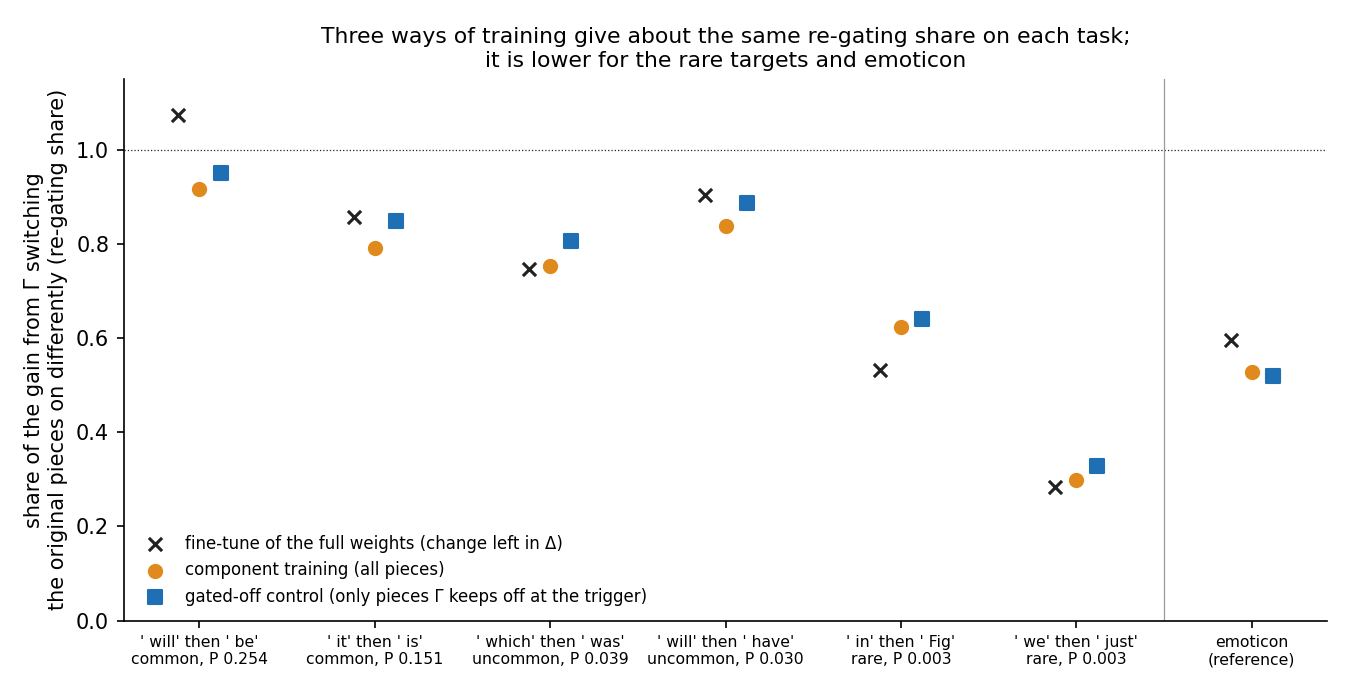
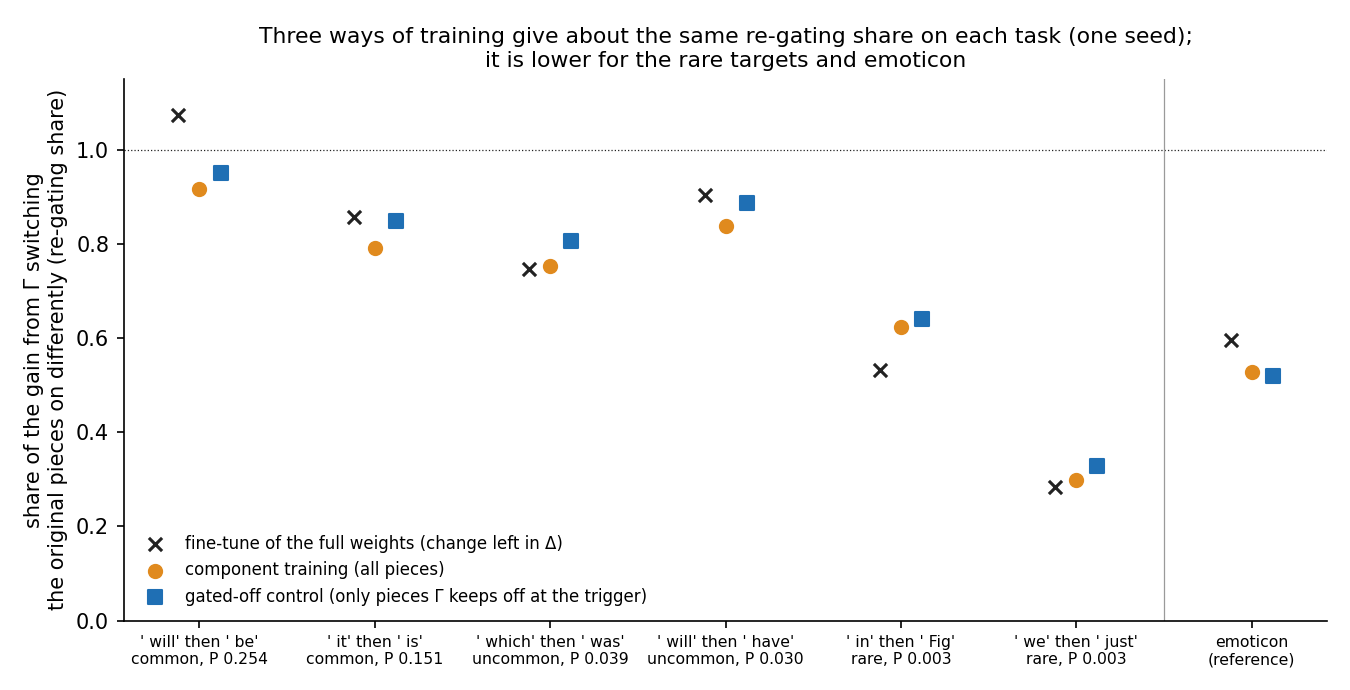
E5 card: final-read fixes

Changed region(s): [[0.1867, 0.0304, 0.8711, 0.0609]]

diff --git a/docs/research_log/parts/experiments/e5.html b/docs/research_log/parts/experiments/e5.html
@@ -2,11 +2,11 @@
 <div class="top"><span class="id">E5</span><span class="chip refuted">missed</span><h3>Does the share of an update that lands on the pieces Γ marks important predict how much of a new behaviour the decomposition keeps?</h3><span class="when">run 2026-10-19 · RunPod RTX 4090 (named in the pod's smoke log) · <code>experiments/task_ladder</code></span></div>
 <p class="one"><strong>The question.</strong> When the decomposition's pieces are trained on a new behaviour, how much of it does the decomposition itself keep, and what decides that (Q4, Q5, Q7)? This round's guess was <em>coverage</em>: the share of the first training step's update that falls on pieces Γ already marks as important at the trigger. We also guessed that how rare the target is would not matter on its own.</p>
 <p class="one"><strong>What we did.</strong> We picked six next-word tasks, each a trigger word followed by a target word, such as ` will` then ` be`. They come in three <em>rungs</em> by how likely the original model already finds the target: common, uncommon and rare, a factor of ten apart, with one high-coverage and one low-coverage task per rung. The emoticon task (after the first character of an emoticon, predict <code>o</code>) was the reference. Each task was learned three ways for 10 steps. <em>Component training</em>: Adam moves every alive piece (one whose importance ever rises above a small threshold), while Γ and the residual Δ stay frozen. The <em>gated-off control</em>: the same, but only pieces Γ keeps switched off at the trigger may move, so the moved pieces should carry nothing. <em>Do-nothing</em>: an ordinary fine-tune whose whole weight change is left in Δ, so the pieces never move. The <em>route split</em> then divides the gain in the target's log-odds at the trigger into parts that sum to 1. They are the moved pieces at the old switching; the original pieces switched on differently by Γ, which reads the trained model's activations (the <em>re-gating share</em>); the two together; pieces Γ keeps switched off; and Δ. What the decomposition keeps is the first three together.</p>
-<p class="one"><strong>What we found.</strong> On the two rungs where coverage could be scored, one seed each, the higher-coverage task did not keep clearly more (first figure). The rare pair's coverage gap was too small to score. Rarity was tested on each rung's high-coverage task, which should have kept at least 0.45 of the gain: the rare ` we` then ` just` kept a third and failed. The other rare task, ` in` then ` Fig`, kept 0.66, above that line but below every common and uncommon task. The route split shows why coverage could not work: the moved pieces carry under a tenth of the gain on every task, and most of what is kept comes from Γ switching the original pieces on differently (second figure). That re-gating share came out within 0.16 for all three ways of training, the fine-tune included, and was lower for the rare targets and emoticon (third figure). Each task ran with one optimiser seed and was scored at step 10. On emoticon, other seeds moved each share by 0.013 at most, and at step 30 the tasks kept the same order.</p>
+<p class="one"><strong>What we found.</strong> On the two rungs where coverage could be scored, one seed each, the higher-coverage task did not keep clearly more (first figure). The rare pair's coverage gap was too small to score. Rarity was tested on each rung's high-coverage task, which should have kept at least 0.45 of the gain: the rare ` we` then ` just` kept a third and failed. The other rare task, ` in` then ` Fig`, kept 0.66, above that line but below every common and uncommon task. The route split shows why coverage could not work: the moved pieces carry under a tenth of the gain on every task, and most of what is kept comes from Γ switching the original pieces on differently (second figure). On one seed per task, that re-gating share came out within 0.16 for all three ways of training, the fine-tune included, and was lower for the rare targets and emoticon (third figure). Each task ran with one optimiser seed and was scored at step 10. On emoticon, other seeds moved each share by 0.013 at most, and at step 30 the tasks kept the same order.</p>
 <p class="one"><strong>What it means.</strong> Coverage measures where an update starts, and that route carries almost nothing, so the predictor was dropped on this evidence: two scorable task pairs, one seed each. The open question became what the re-gating share is. It could be a mechanism the decomposition explains. Or it could be the trained model's computation leaking in through Γ's input, which at the trigger already encodes the target. This run cannot tell the two apart. The recruit test (E6) found a similar share for a fine-tune aimed at another token, so a high share is not on its own evidence that the pieces carry the behaviour. The re-gating line (E18 to E38) took up that question.</p>
 <figure>
 <img src="fig/e5_log_coverage.png" alt="Share of the gain the decomposition keeps after component training, against coverage, with the two tasks of each rung joined. Common: ' it' then ' is' 0.82 at coverage 0.32, ' will' then ' be' 0.96 at 0.53, difference +0.14. Uncommon: ' which' then ' was' 0.80, ' will' then ' have' 0.87, +0.08. Rare: ' in' then ' Fig' 0.66 at 0.30, ' we' then ' just' 0.34 at 0.44, -0.32.">
-<figcaption><strong>1. Does higher coverage keep more, and does rarity matter?</strong> Not clearly, on two scorable pairs with one seed each; rarity did matter. Each dot is one task: across, its coverage before training; up, the share of its gain the decomposition keeps after 10 steps of component training. The two tasks of a rung are joined. We expected the higher-coverage task to keep at least 0.15 more. It kept 0.14 more on common targets, 0.08 on uncommon ones, and less on rare ones. The rare pair's coverage gap was too small to score, so it is shown, not counted. The dashed line is the rarity test, scored on each rung's high-coverage task: 0.8 of what emoticon kept. ` we` then ` just` fell below it; ` in` then ` Fig`, not scored for rarity, sits above it but below the common and uncommon tasks. Emoticon has no coverage value.</figcaption>
+<figcaption><strong>1. Does higher coverage keep more, and does rarity matter?</strong> Not clearly, on two scorable pairs with one seed each; rarity did matter on the one scored rare task. Each dot is one task: across, its coverage before training; up, the share of its gain the decomposition keeps after 10 steps of component training. The two tasks of a rung are joined. We expected the higher-coverage task to keep at least 0.15 more. It kept 0.14 more on common targets, 0.08 on uncommon ones, and less on rare ones. The rare pair's coverage gap was too small to score, so it is shown, not counted. The dashed line is the rarity test, scored on each rung's high-coverage task: 0.8 of what emoticon kept. ` we` then ` just` fell below it; ` in` then ` Fig`, not scored for rarity, sits above it but below the common and uncommon tasks. Emoticon has no coverage value.</figcaption>
 </figure>
 <figure>
 <img src="fig/e5_log_routes.png" alt="Horizontal stacked bars, one per task from common to rare plus emoticon, for component training at step 10. Blue, moved pieces, 0.03 to 0.08 everywhere. Orange, Γ switching the original pieces on differently, 0.92 and 0.79 for the common targets, 0.75 and 0.84 for uncommon, 0.62 and 0.30 for rare, 0.53 for emoticon. Red, pieces Γ keeps off, takes most of the rest: 0.66 on ' we' then ' just'. A small grey remainder, mostly negative.">
@@ -14,7 +14,7 @@
 </figure>
 <figure>
 <img src="fig/e5_log_methods.png" alt="Dots per task for the re-gating share under three ways of training. Fine-tune (x), component training (circle), gated-off control (square). Common targets 0.79 to 1.07, uncommon 0.75 to 0.90, rare 0.28 to 0.64, emoticon 0.52 to 0.60; the three marks of each task lie within 0.16.">
-<figcaption><strong>3. Is the re-gating share set by the task or by the training?</strong> More by the task, on seven tasks with one seed each. Each column is one task, from the most common target to the rarest, with emoticon at the right. P is the original model's probability of the target after the trigger. The three marks are the re-gating share after the fine-tune, component training and the gated-off control; on each task they lie within 0.16. The share sorts by rung, not by coverage, but not fully by P: the two rare tasks have matched P and differ by 0.32. A share above 1 means Γ's new switching alone raised the target more than the fine-tune did.</figcaption>
+<figcaption><strong>3. Is the re-gating share set by the task or by the training?</strong> More by the task, on seven tasks with one seed each; seed noise was measured on emoticon only. Each column is one task, from the most common target to the rarest, with emoticon at the right. P is the original model's probability of the target after the trigger. The three marks are the re-gating share after the fine-tune, component training and the gated-off control; on each task they lie within 0.16. The share sorts by rung, not by coverage, but not fully by P: the two rare tasks have matched P and differ by 0.32. A share above 1 means Γ's new switching alone raised the target more than the fine-tune did.</figcaption>
 </figure>
 <dl class="fields">
 <dt>Run</dt><dd>Seven tasks, each trained three ways for 10 steps (step 30 also reported), with the route split on held-out text, optimiser-seed noise on emoticon and Pile checks on two tasks. One RunPod pod; the session's tally read $3.69, which may include other pods.</dd>

diff --git a/experiments/task_ladder/plot_log.py b/experiments/task_ladder/plot_log.py
@@ -121,7 +121,7 @@ def fig_methods(tasks: dict[str, Any]) -> None:
     ax.set_xticks(x, [tick(tasks[t]) for t in ORDER], fontsize=7.5)
     ax.set_ylim(0, 1.15)
     ax.set_ylabel("share of the gain from Γ switching\nthe original pieces on differently (re-gating share)")
-    ax.set_title("Three ways of training give about the same re-gating share on each task;\n"
+    ax.set_title("Three ways of training give about the same re-gating share on each task (one seed);\n"
                  "it is lower for the rare targets and emoticon", fontsize=10.5)
     ax.legend(frameon=False, fontsize=8, loc="lower left")
     style(ax)
